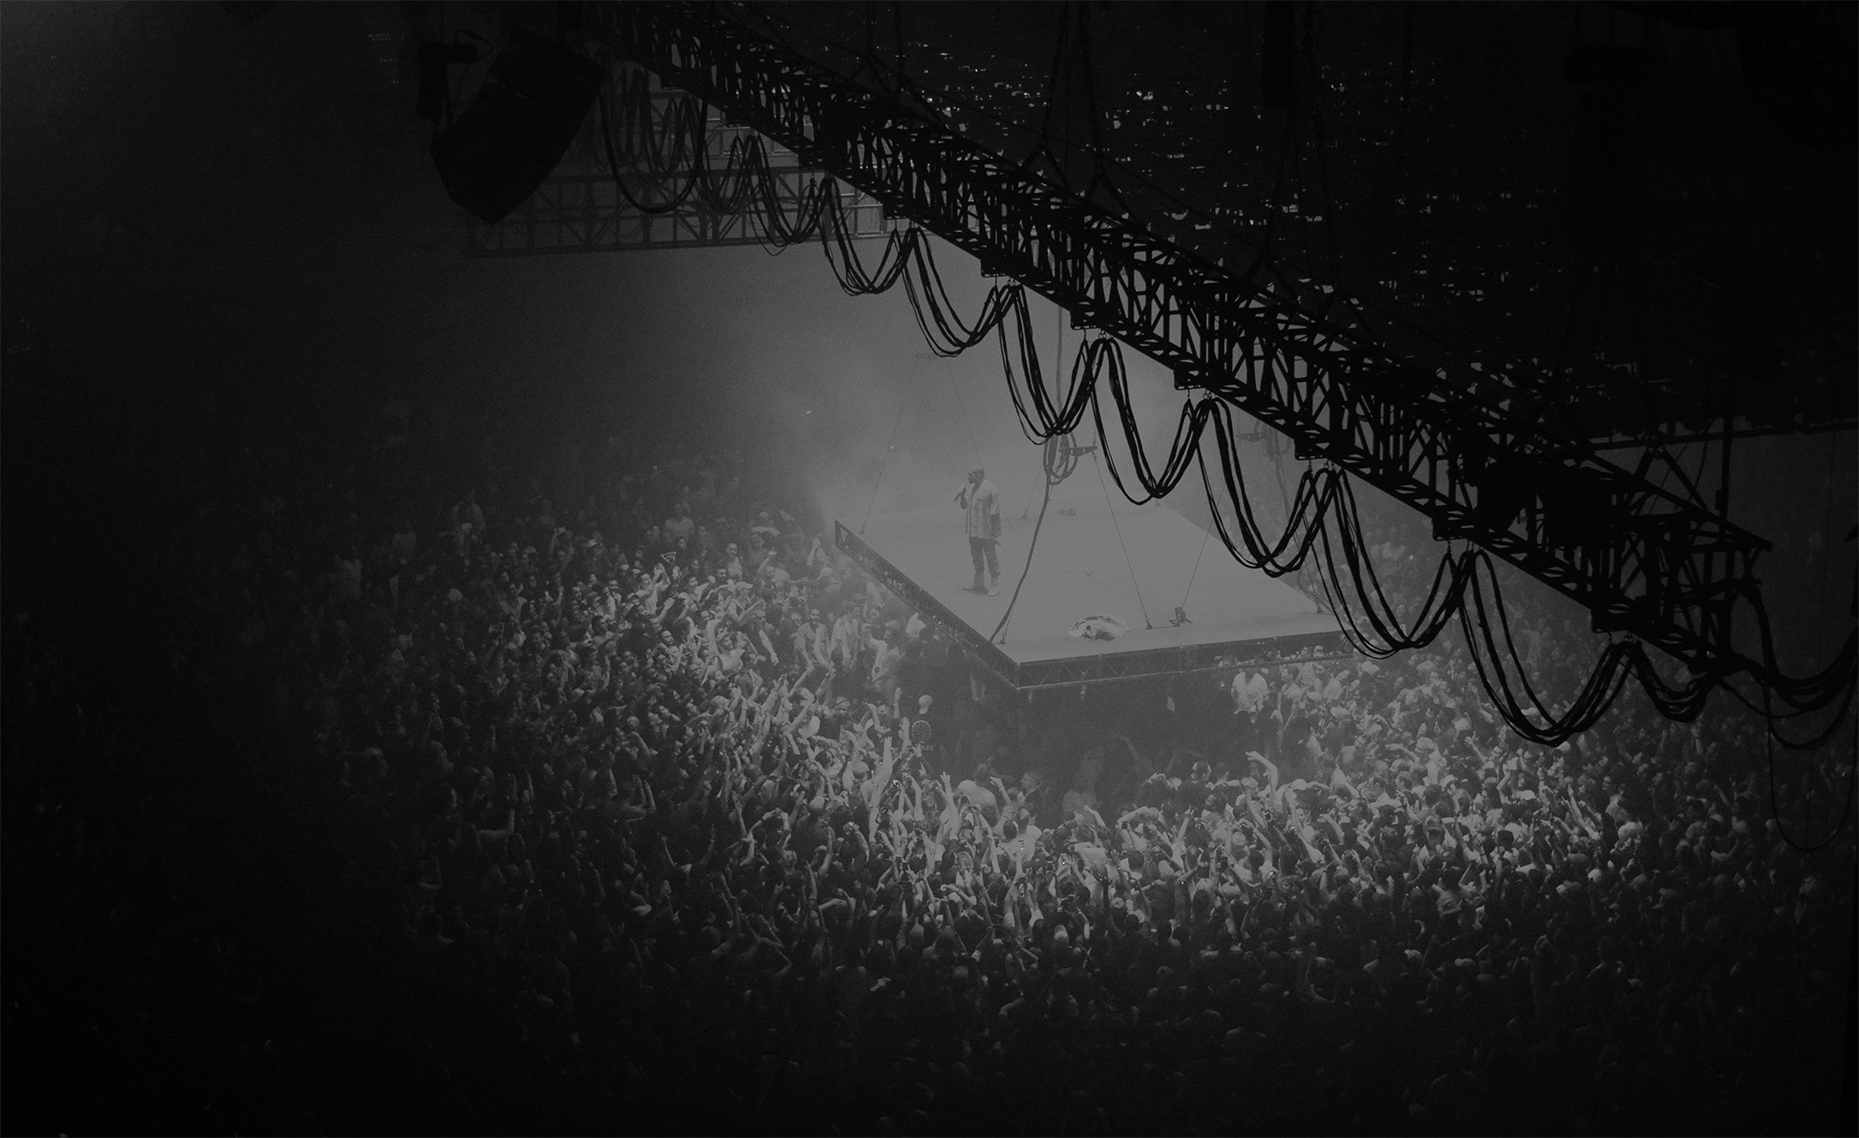
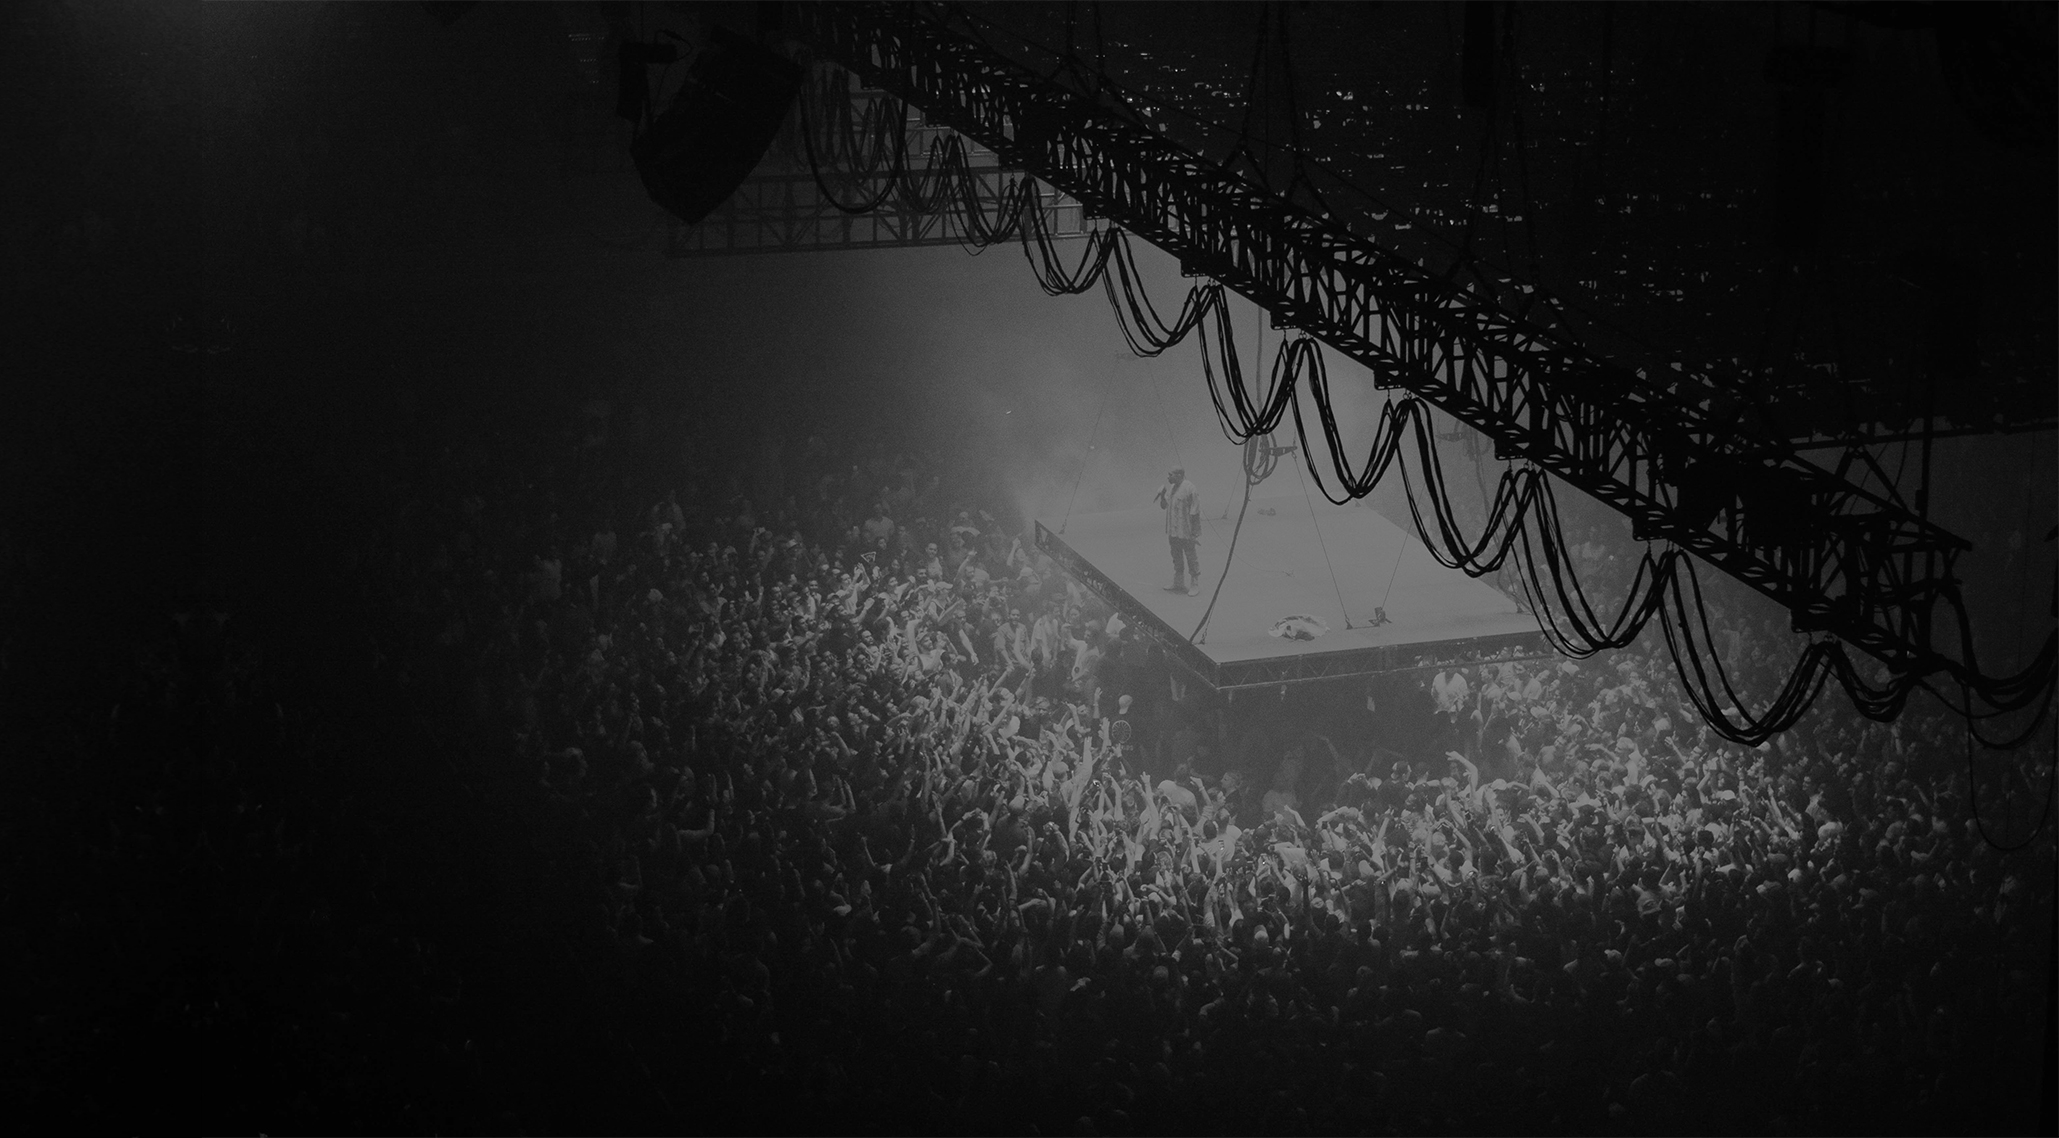
Update CSI styles

diff --git a/themes/csi/assets/scss/_header.scss b/themes/csi/assets/scss/_header.scss
@@ -1,28 +1,21 @@
 header {
   width: 100%;
-  max-width: $value-maxLarger;
   position: relative;
   margin: 0 auto;
   padding-bottom: 84px;
   background: $color-white;
   overflow-x: hidden;
-  @include media-min-960 {
-    top: 84px;
-    margin: 0 auto 20px auto;
-  }
   nav {
     z-index: 999;
     position: fixed;
     @include media-min-960 {
       width: 100%;
-      max-width: $value-maxLarger;
       height: 84px;
       top: 0;
-      background: $color-white;
     }
     aside {
-      width: 84px;
-      height: 84px;
+      width: 90px;
+      height: 90px;
       position: absolute;
       top: 0;
       left: 0;
@@ -34,21 +27,42 @@ header {
       background-size: cover;
       background-repeat: no-repeat;
       span.logo {
-        display: none;
-        @include media-min-960 {
-          display: block;
-          position: absolute;
-          top: 0;
-          left: 0;
-          right: 0;
-          bottom: 0;
-          background-image: url('../images/csi_mono_white.svg');
-          background-position: 17px 19px;
-          background-size: 45px 45px;
-          background-repeat: no-repeat;
+        display: block;
+        position: absolute;
+        top: 0;
+        left: 0;
+        right: 0;
+        bottom: 0;
+        background-image: url('../images/csi_mono_white.svg');
+        background-position: 8px 9px;
+        background-size: 72px 72px;
+        background-repeat: no-repeat;
+        transition: all 500ms ease-in;
+        &.logo-shrink {
+            background-position: 12px 9px;
+            background-size: 62px 62px;
         }
       }
-      div.hamburger {
+
+      h5 {
+        display: inline-block;
+        position: absolute;
+        bottom: 5px;
+        left: 0;
+        right: 0;
+        width: 100%;
+        font-family: $font-sans;
+        color: $color-white;
+        font-size: 11px;
+        text-indent: -3px;
+        text-align: center;
+        opacity: 0;
+        transition: opacity 500ms ease-in;
+        &.menu-visible {
+            opacity: 1;
+        }
+      }
+      /* div.hamburger {
         display: inline-block;
         position: absolute;
         top: 20px;
@@ -83,7 +97,7 @@ header {
             transform: rotate(45deg) translate(-8px, -8px);
           }
         }
-      }
+      }    */
     }
     ul.primary {
       display: none;
@@ -91,20 +105,21 @@ header {
         display: flex;
         width: 96%;
         justify-content: flex-end;
-        font-size: 18px;
+        font-size: 12px;
         font-family: $font-sans;
-        font-weight: 700;
+        font-weight: 100;
         text-transform: uppercase;
         letter-spacing: 0.1rem;
+        color: $color-white-faded;
       }
       @include media-min-1144 {
-        width: calc(100% - 84px);
+        width: calc(100% - 40px);
       }
       li {
-        width: 264px;
+        width: 90px;
         text-align: right;
         line-height: 84px;
-        :after {
+        /* :after {
           content: '';
           display: none;
           @include media-min-960 {
@@ -114,7 +129,7 @@ header {
             height: 2px;
             position: relative;
             top: -26px;
-            border-bottom: 1px solid $color-brand;
+            border-bottom: 1px solid $color-white-faded;
             transition: width 300ms ease, opacity 300ms ease;
             opacity: 0;
           }
@@ -124,9 +139,9 @@ header {
             width: 140px;
             opacity: 1;
           }
-        }
+        } */
         a.active {
-          color: $color-brand;
+          border-bottom: 1px solid $color-white-faded;
         }
       }
     }
@@ -134,17 +149,14 @@ header {
   section {
     width: 100%;
     min-width: 960px;
-    max-width: $value-maxSmaller;
+    max-width: 100vw;
     position: relative;
     margin: 0 auto;
     padding: 0;
     background-image: url('../images/hero-image.jpg');
     background-size: cover;
     background-repeat: no-repeat;
-    background-position: center center;
-    @include media-min-1144 {
-      width: calc(100% - 168px);
-    }
+    background-position: left center;
     &:before {
       transition: padding 600ms ease;
       transition-delay: 100ms;
@@ -279,12 +291,13 @@ header {
         position: absolute;
         bottom: 0;
         right: 0;
-        background: $color-white;
+        border-top: 1px solid $color-white-faded;
+        border-left: 1px solid $color-white-faded;
         text-align: center;
         a {
           display: inline-block;
           width: 100%;
-          color: $color-brand;
+          color: $color-white-faded;
           font-family: $font-sans;
           font-size: 20px;
           font-weight: 600;

diff --git a/themes/csi/partials/header.htm b/themes/csi/partials/header.htm
@@ -2,23 +2,30 @@
 <nav>
     <aside>
         <span class="logo"></span>
-        <div class="hamburger">
-            <span></span>
-            <span></span>
-            <span></span>
-            <h5>MENU</h5>
-        </div>
+        <h5>MENU</h5>
+<!-- <div class="hamburger">
+    <span></span>
+    <span></span>
+    <span></span>
+    <h5>MENU</h5>
+</div> -->
     </aside>
     <ul class="primary">
-        <li><a href="/" class="fade-content fade-content-work" ng-class="{'active': isActiveTab('/')}">Our Work</a></li>
-        <li><a class="fade-content fade-content-about" href="/about" ng-class="{active: isActiveTab('/about')}">About Us</a></li>
-        <li><a class="fade-content fade-content-contact" href="/contact" ng-class="{active: isActiveTab('/contact')}">Contact</a></li>
+        <li>
+            <a href="/" class="fade-content fade-content-work" ng-class="{'active': isActiveTab('/')}">Our Work</a>
+        </li>
+        <li>
+            <a class="fade-content fade-content-about" href="/about" ng-class="{active: isActiveTab('/about')}">About Us</a>
+        </li>
+        <li>
+            <a class="fade-content fade-content-contact" href="/contact" ng-class="{active: isActiveTab('/contact')}">Contact</a>
+        </li>
     </ul>
 </nav>
 <section class="sixteen-nine" ng-class="{'sixteen-four hero-about': isActiveTab('/about'), 'sixteen-four hero-contact': isActiveTab('/contact')}">
     <div class="hero-image"></div>
     <div class="content">
-        <span class="logo"></span>
+        <!--<span class="logo"></span>-->
         <div class="intro fade-out">
             <h2>When you're ready for <br><span>a different breed of event.</span></h2>
             <!--<p>Center Stage Industries is a full service event production company based in Seattle. We collaborate with teams from around the world to offer top notch concert, festival, and corporate event production services.</p>-->

diff --git a/themes/csi/assets/app.js b/themes/csi/assets/app.js
@@ -252,7 +252,7 @@ app.controller('primaryController', [
         
         // Dynamically load header intro content and animations
         $document.ready(function () {
-            mobileMenuService.animateHamburger();
+            //mobileMenuService.animateHamburger();
             navigationService.init();
         });
     }

diff --git a/themes/csi/assets/scss/_vars.scss b/themes/csi/assets/scss/_vars.scss
@@ -2,6 +2,7 @@
 $color-black: #111;
 $color-grey: #c1c1c1;
 $color-white: #fff;
+$color-white-faded: rgba(255, 255, 255, 0.85);
 $color-purple: #6b26fd;
 $color-confirm: #24c159;
 $color-confirm-hover: #09B543;
